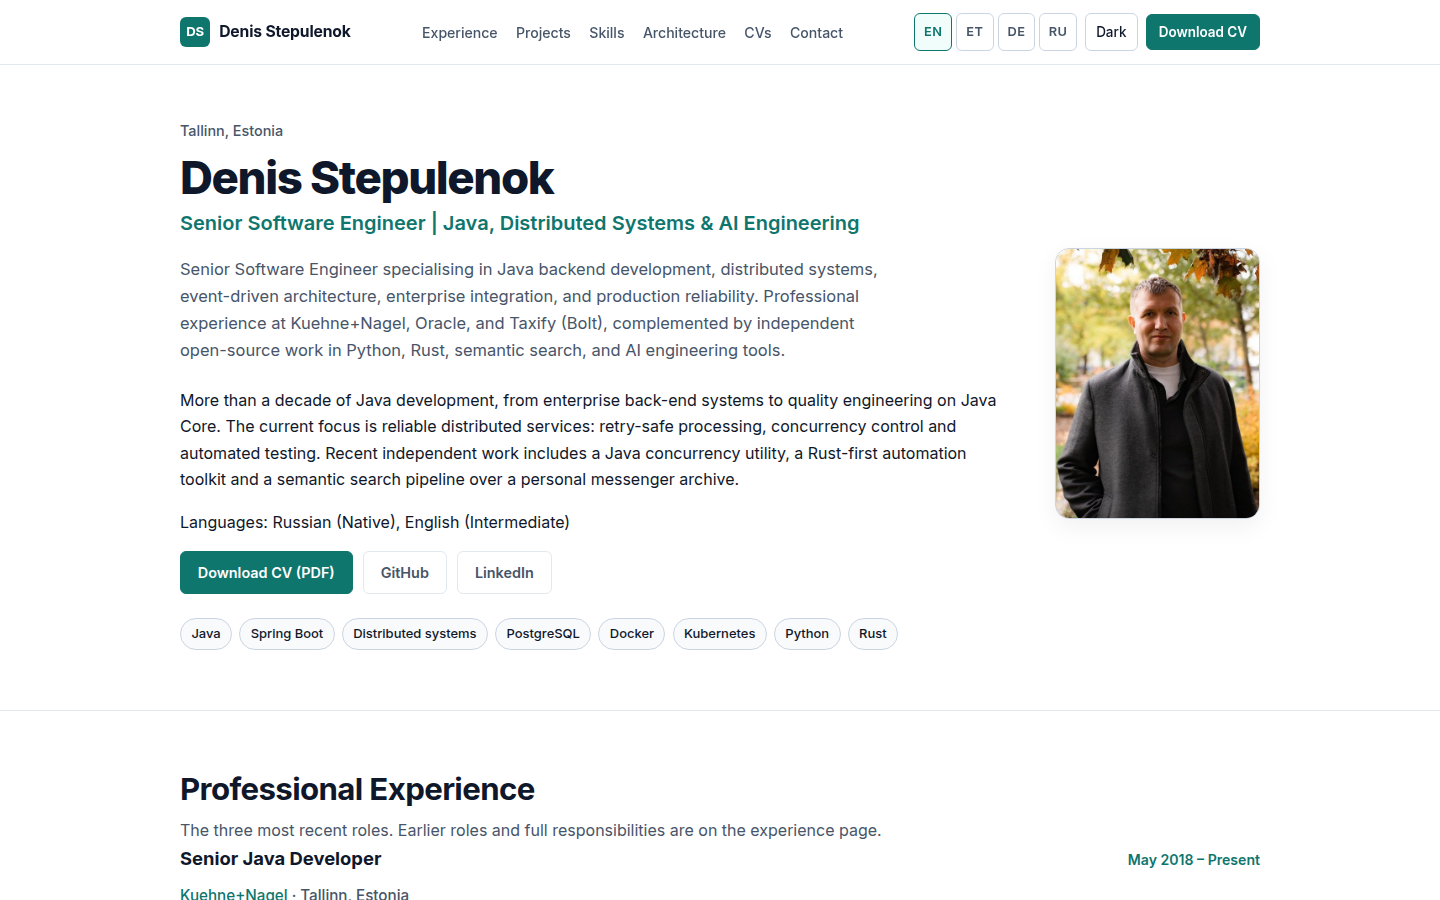
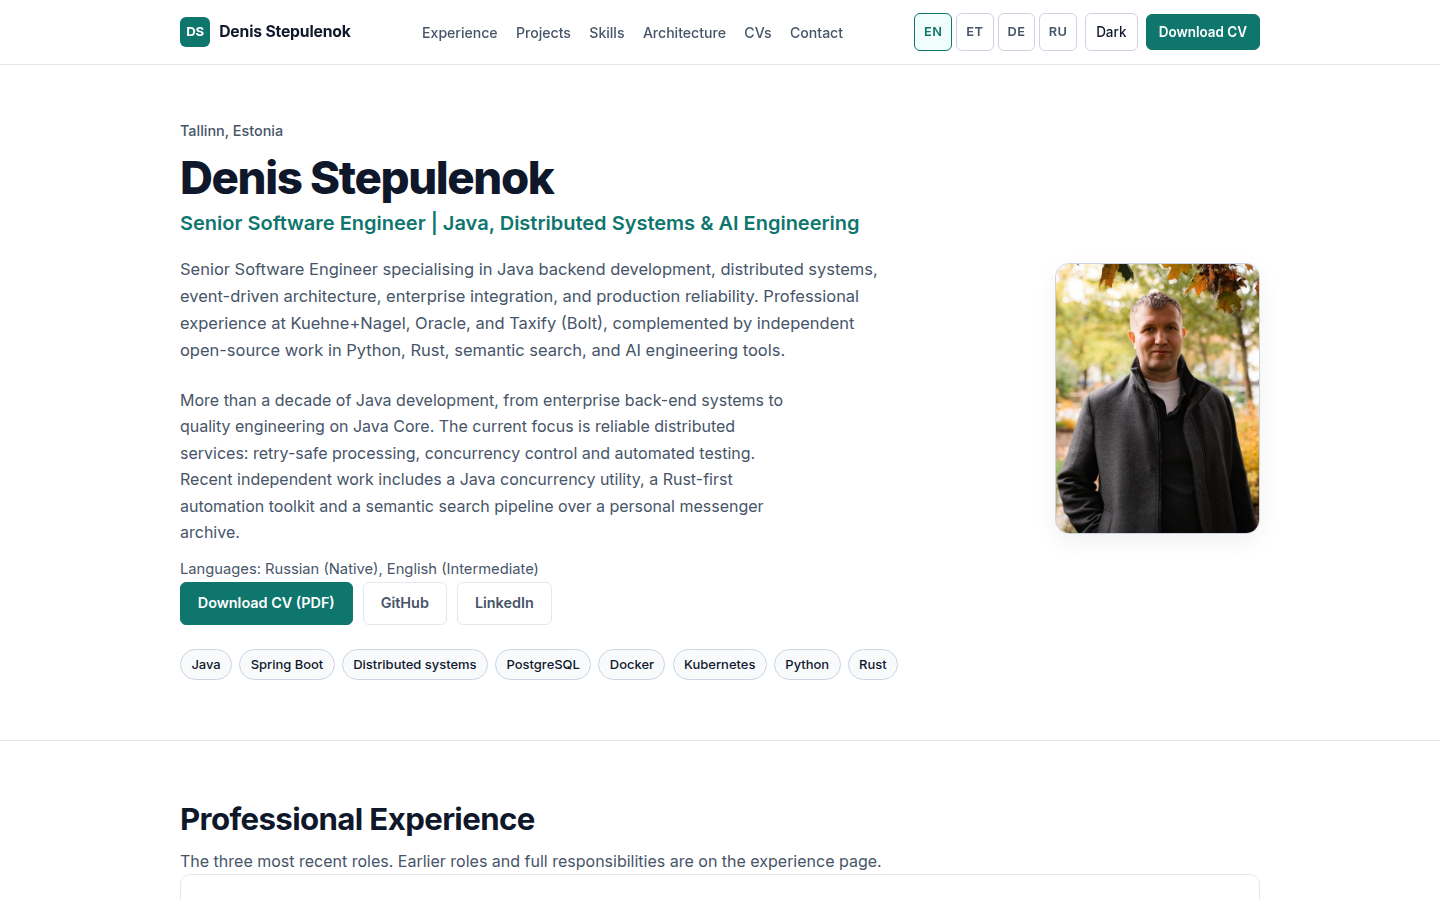
Fix the claims and layout issues found in automated review
- Add the stylesheet rules for the homepage and page blocks that had none.
- Show the architecture diagram only for case studies that have their own.
  The FunnyFileManager/RustShot case study no longer shows the educational
  reference diagram as its architecture.
- Remove the in-process claim from the distributed-coordination concept and
  retag the EntityLocker nodes accordingly.
- Limit the Oracle Database usage to the period the source data supports.
- State the Git usage as enterprise work and drop the "all roles" wording.
- Describe the full CV as a career history, not a complete one, in all four
  languages.

diff --git a/architecture/index.html b/architecture/index.html
@@ -253,7 +253,7 @@
             <h4 class="card-title" data-field="title">Concurrent Caller Threads</h4>
             <p class="card-body" data-field="responsibility">Multiple application threads contend on reads or mutations identified solely by generic entity IDs.</p>
             <p class="tech-group-label" style="margin-top:0.75rem">Engineering Concepts</p>
-            <p class="card-body" data-field="concepts">Distributed coordination</p>
+            <p class="card-body" data-field="concepts">Cache consistency</p>
             <p class="tech-group-label" style="margin-top:0.75rem">Design Trade-off</p>
             <p class="card-body" data-field="tradeoffs">Key-based locking preserves parallelism across distinct entities compared to coarse class-level locks.</p>
           </div>
@@ -261,7 +261,7 @@
             <p class="tech-group-label" style="margin-bottom:0.45rem">Inspect Components (Click or Enter)</p>
             <ul class="arch-component-list">
           <li>
-            <button type="button" class="arch-component-btn" data-node-id="caller-threads" data-node-json="{&quot;title&quot;:&quot;Concurrent Caller Threads&quot;,&quot;responsibility&quot;:&quot;Multiple application threads contend on reads or mutations identified solely by generic entity IDs.&quot;,&quot;concepts&quot;:[&quot;Distributed coordination&quot;],&quot;tradeoffs&quot;:&quot;Key-based locking preserves parallelism across distinct entities compared to coarse class-level locks.&quot;}" aria-pressed="true">
+            <button type="button" class="arch-component-btn" data-node-id="caller-threads" data-node-json="{&quot;title&quot;:&quot;Concurrent Caller Threads&quot;,&quot;responsibility&quot;:&quot;Multiple application threads contend on reads or mutations identified solely by generic entity IDs.&quot;,&quot;concepts&quot;:[&quot;Cache consistency&quot;],&quot;tradeoffs&quot;:&quot;Key-based locking preserves parallelism across distinct entities compared to coarse class-level locks.&quot;}" aria-pressed="true">
               <strong>1. Concurrent Caller Threads</strong>
               <span>Multiple application threads contend on reads or mutations identified solely by generic entity IDs.</span>
             </button>
@@ -273,7 +273,7 @@
             </button>
           </li>
           <li>
-            <button type="button" class="arch-component-btn" data-node-id="entity-lock" data-node-json="{&quot;title&quot;:&quot;Per-ID Reentrant Lock&quot;,&quot;responsibility&quot;:&quot;Serialises access per entity ID while allowing optional global escalation or lock acquisition timeouts.&quot;,&quot;concepts&quot;:[&quot;Failure handling&quot;,&quot;Distributed coordination&quot;],&quot;tradeoffs&quot;:&quot;Timeouts protect caller threads against deadlock or slow downstream operations.&quot;}" aria-pressed="false">
+            <button type="button" class="arch-component-btn" data-node-id="entity-lock" data-node-json="{&quot;title&quot;:&quot;Per-ID Reentrant Lock&quot;,&quot;responsibility&quot;:&quot;Serialises access per entity ID while allowing optional global escalation or lock acquisition timeouts.&quot;,&quot;concepts&quot;:[&quot;Failure handling&quot;],&quot;tradeoffs&quot;:&quot;Timeouts protect caller threads against deadlock or slow downstream operations.&quot;}" aria-pressed="false">
               <strong>3. Per-ID Reentrant Lock</strong>
               <span>Serialises access per entity ID while allowing optional global escalation or lock acquisition timeouts.</span>
             </button>
@@ -512,7 +512,7 @@
       </article>
       <article class="concept-card">
         <h3>Distributed Coordination</h3>
-        <p>Transcription workers claim queue rows with SKIP LOCKED, so several workers share one queue without taking the same row. EntityLocker coordinates work on one entity at a time.</p>
+        <p>Transcription workers claim queue rows with SKIP LOCKED, so several workers share one queue without taking the same row.</p>
       </article>
       <article class="concept-card">
         <h3>Cache Consistency</h3>

diff --git a/assets/css/style.css b/assets/css/style.css
@@ -1428,3 +1428,90 @@ details.compact-role:not([open]) .compact-chevron::after {
     gap: 0.8rem;
   }
 }
+
+/* Homepage and secondary-page blocks (added with the five-section homepage). */
+.hero-intro {
+  margin: 0.85rem 0 0;
+  max-width: 62ch;
+  color: var(--text-muted);
+}
+
+.hero-languages {
+  margin: 0.75rem 0 0;
+  font-size: 0.92rem;
+  color: var(--text-muted);
+}
+
+.muted {
+  color: var(--text-muted);
+}
+
+.actions {
+  display: flex;
+  flex-wrap: wrap;
+  align-items: center;
+  gap: 0.6rem;
+}
+
+.section-more {
+  margin: 1.25rem 0 0;
+}
+
+.tech-list {
+  margin: 0.5rem 0 0;
+  font-size: 0.9rem;
+  color: var(--text-muted);
+}
+
+.home-roles {
+  display: grid;
+  gap: 1.25rem;
+}
+
+.home-role {
+  padding: 1.25rem;
+  border: 1px solid var(--border);
+  border-radius: var(--radius-md);
+  background: var(--bg-card);
+}
+
+.home-projects {
+  display: grid;
+  gap: 1rem;
+  grid-template-columns: repeat(auto-fit, minmax(min(100%, 16rem), 1fr));
+}
+
+.home-project {
+  padding: 1.1rem;
+  border: 1px solid var(--border);
+  border-radius: var(--radius-md);
+  background: var(--bg-card);
+}
+
+.skill-group-home {
+  margin-bottom: 1.25rem;
+}
+
+.skill-group-title {
+  margin: 0 0 0.5rem;
+  font-size: 1rem;
+}
+
+.contact-list {
+  display: grid;
+  gap: 0.4rem;
+  margin: 0 0 1rem;
+  padding: 0;
+  list-style: none;
+}
+
+.page-header {
+  padding: clamp(2rem, 5vw, 3.5rem) 0 1.5rem;
+  border-bottom: 1px solid var(--border);
+}
+
+.page-title {
+  margin: 0 0 0.5rem;
+  font-size: clamp(2rem, 4vw, 2.8rem);
+  letter-spacing: -0.02em;
+}

diff --git a/ru/projects/index.html b/ru/projects/index.html
@@ -153,10 +153,7 @@
               <ul class="badge-list"><li><span class="badge">Rust</span></li><li><span class="badge">ratatui</span></li><li><span class="badge">H.264 / Media</span></li><li><span class="badge">Gherkin BDD</span></li><li><span class="badge">GitHub Actions</span></li></ul>
             </div>
           </div>
-          <div class="case-diagram-box">
-            <img src="../../assets/images/projects/ref-async-job-pipeline.svg" alt="FunnyFileManager и RustShot — системы и инструменты для рабочего стола architecture flow diagram" loading="lazy" width="420" height="580">
-            <p class="case-diagram-caption"><a href="../../architecture/index.html">Открыть разбор компонентов &rarr;</a></p>
-          </div>
+          
         </div>
       </article>
     </div>

diff --git a/et/projects/index.html b/et/projects/index.html
@@ -153,10 +153,7 @@
               <ul class="badge-list"><li><span class="badge">Rust</span></li><li><span class="badge">ratatui</span></li><li><span class="badge">H.264 / Media</span></li><li><span class="badge">Gherkin BDD</span></li><li><span class="badge">GitHub Actions</span></li></ul>
             </div>
           </div>
-          <div class="case-diagram-box">
-            <img src="../../assets/images/projects/ref-async-job-pipeline.svg" alt="FunnyFileManager ja RustShot — süsteemid ja töölauatööriistad architecture flow diagram" loading="lazy" width="420" height="580">
-            <p class="case-diagram-caption"><a href="../../architecture/index.html">Vaata komponentide koostist interaktiivselt &rarr;</a></p>
-          </div>
+          
         </div>
       </article>
     </div>

diff --git a/de/projects/index.html b/de/projects/index.html
@@ -153,10 +153,7 @@
               <ul class="badge-list"><li><span class="badge">Rust</span></li><li><span class="badge">ratatui</span></li><li><span class="badge">H.264 / Media</span></li><li><span class="badge">Gherkin BDD</span></li><li><span class="badge">GitHub Actions</span></li></ul>
             </div>
           </div>
-          <div class="case-diagram-box">
-            <img src="../../assets/images/projects/ref-async-job-pipeline.svg" alt="FunnyFileManager und RustShot — Systeme und Desktop-Werkzeuge architecture flow diagram" loading="lazy" width="420" height="580">
-            <p class="case-diagram-caption"><a href="../../architecture/index.html">Interaktive Komponentenaufschlüsselung ansehen &rarr;</a></p>
-          </div>
+          
         </div>
       </article>
     </div>

diff --git a/projects/index.html b/projects/index.html
@@ -153,10 +153,7 @@
               <ul class="badge-list"><li><span class="badge">Rust</span></li><li><span class="badge">ratatui</span></li><li><span class="badge">H.264 / Media</span></li><li><span class="badge">Gherkin BDD</span></li><li><span class="badge">GitHub Actions</span></li></ul>
             </div>
           </div>
-          <div class="case-diagram-box">
-            <img src="../assets/images/projects/ref-async-job-pipeline.svg" alt="FunnyFileManager &amp; RustShot — Systems &amp; Desktop Tooling architecture flow diagram" loading="lazy" width="420" height="580">
-            <p class="case-diagram-caption"><a href="../architecture/index.html">Inspect interactive component breakdown &rarr;</a></p>
-          </div>
+          
         </div>
       </article>
     </div>

diff --git a/scripts/build-site.js b/scripts/build-site.js
@@ -212,10 +212,10 @@ function renderProjects(data, depth = 0) {
               <ul class="badge-list">${stackBadges}</ul>
             </div>
           </div>
-          <div class="case-diagram-box">
+          ${cs.diagramSlug ? `<div class="case-diagram-box">
             <img src="${relPrefix(depth)}assets/images/projects/${escapeHtml(cs.diagramSlug)}.svg" alt="${escapeHtml(cs.title)} architecture flow diagram" loading="lazy" width="420" height="580">
             <p class="case-diagram-caption"><a href="${relPrefix(depth)}architecture/index.html">${escapeHtml(ui('caseInspect'))} &rarr;</a></p>
-          </div>
+          </div>` : ''}
         </div>
       </article>`;
     }).join('\n');

diff --git a/tech/oracle.html b/tech/oracle.html
@@ -102,7 +102,7 @@
     </ul>
     <h2>Where used</h2>
     <ul class="bullet-list">
-      <li>Relational database work, 2014 – 2017 and 2018 – present</li>
+      <li>Relational database work, 2018 – present</li>
     </ul>
     <p><a class="btn btn-secondary btn-sm" href="https://www.oracle.com/database/" target="_blank" rel="noopener noreferrer">Official documentation</a></p>
   </div>

diff --git a/tech/git.html b/tech/git.html
@@ -101,7 +101,7 @@
     </ul>
     <h2>Where used</h2>
     <ul class="bullet-list">
-      <li>Version control in all roles</li>
+      <li>Version control in enterprise work, 2018 – present</li>
     </ul>
     <p><a class="btn btn-secondary btn-sm" href="https://git-scm.com" target="_blank" rel="noopener noreferrer">Official documentation</a></p>
   </div>
